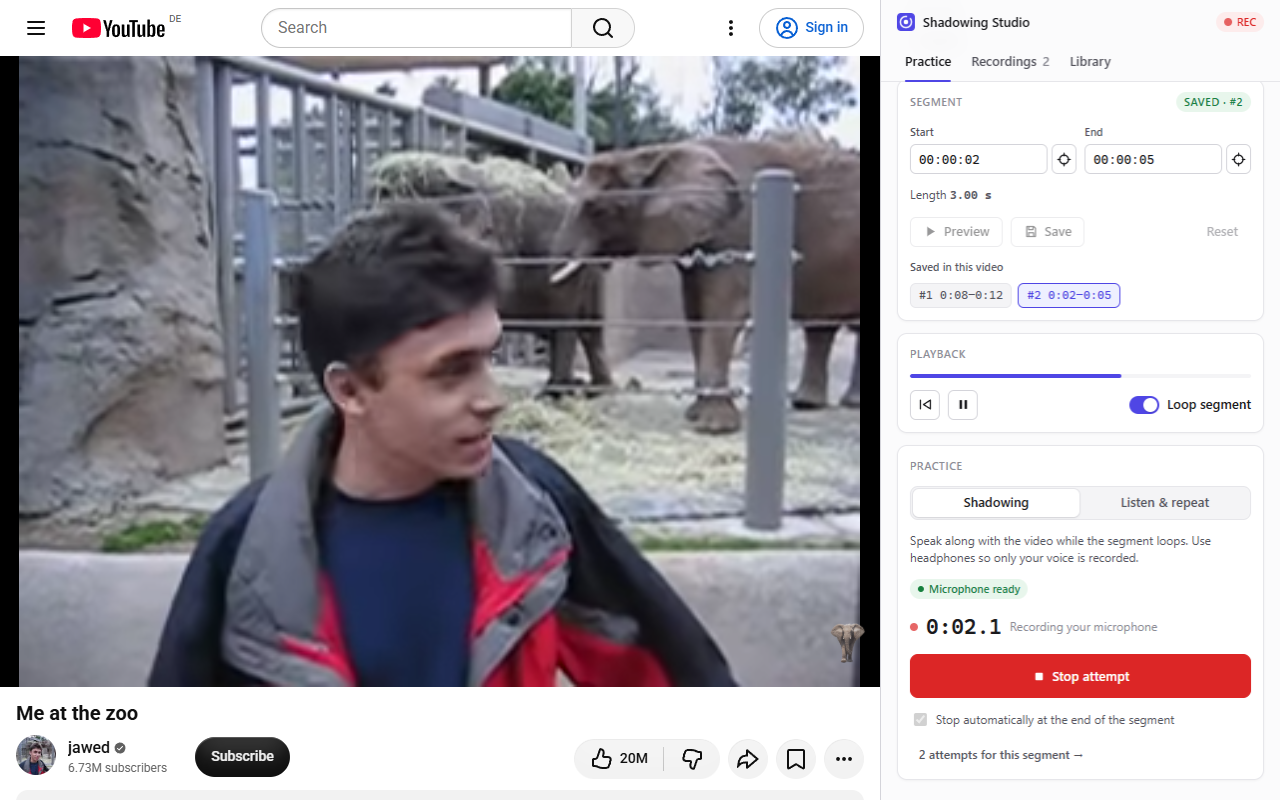
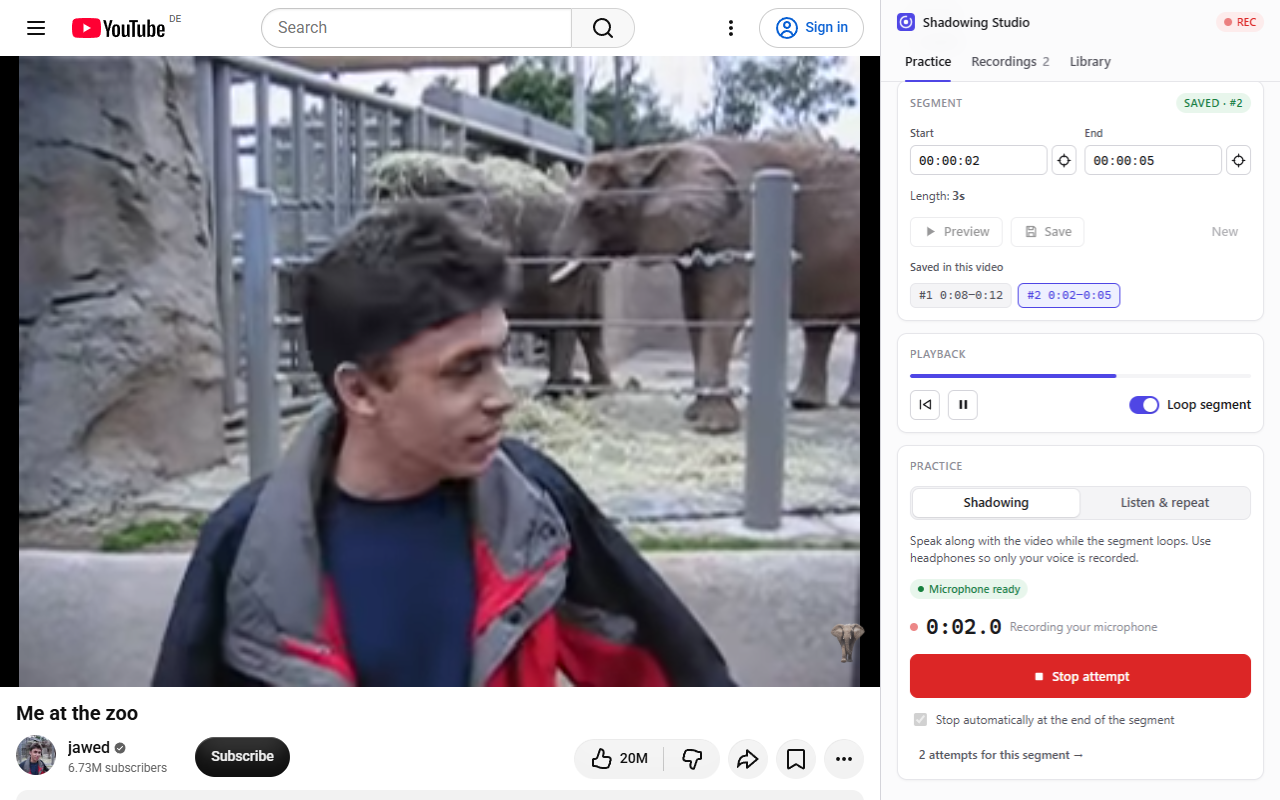
Polish: empty language, overlay toasts, New button, readable length
- Language field starts empty (placeholder "e.g. Spanish"); segments
  saved without a language show as "Unsorted", like export folders
- Notices are toasts overlaying the content below the header, so the
  layout never shifts; they close after 3 s (paused on hover), except
  ones with an action button
- "Reset" is now "New"
- Segment length reads "Length: 1m 10s"
- e2e: checks for the empty language field and toast behaviour;
  store screenshots regenerated

diff --git a/src/sidepanel/App.tsx b/src/sidepanel/App.tsx
@@ -35,6 +35,7 @@ const store = new ShadowingStore();
 const fixDuration: FixDuration = (blob, ms) => fixWebmDuration(blob, ms, { logger: false });
 /** Crash recovery runs once per panel document (StrictMode mounts effects twice in development). */
 let recovery: Promise<Recording[]> | null = null;
+const TOAST_MS = 3000;
 const EMPTY_WORKSPACE: Workspace = { videoId: null, segmentId: null, startText: '', endText: '' };
 
 /** `?tabId=N` pins the panel to one tab. Only used when the panel page is opened as a tab by automated tests. */
@@ -66,6 +67,7 @@ export function App() {
   const [phase, setPhase] = useState<RepeatPhase>('idle');
   const [mic, setMic] = useState<MicPermission>('unknown');
   const [notice, setNotice] = useState<Notice | null>(null);
+  const [toastHovered, setToastHovered] = useState(false);
   const [unsaved, setUnsaved] = useState<{ blob: Blob; mimeType: string } | null>(null);
   const [highlightId, setHighlightId] = useState<string | null>(null);
   const [comparingId, setComparingId] = useState<string | null>(null);
@@ -137,6 +139,18 @@ export function App() {
     bumpLibrary();
     if (live.current.settings.mode === 'repeat') setPhase('done');
   };
+
+  // Notices disappear after 3 s (paused while hovered). Ones with a button stay until used or dismissed.
+  useEffect(() => {
+    if (!notice) {
+      // The region collapses when empty, so mouseleave may never fire: reset the hover state.
+      setToastHovered(false);
+      return;
+    }
+    if (notice.action || toastHovered) return;
+    const id = setTimeout(() => setNotice(null), TOAST_MS);
+    return () => clearTimeout(id);
+  }, [notice, toastHovered]);
 
   // ---- startup: settings, mic permission, crash recovery, player connection ----
   useEffect(() => {
@@ -264,7 +278,7 @@ export function App() {
   /** Returns the saved segment for the current bounds, creating or updating it as needed. */
   async function ensureSegment(): Promise<Segment> {
     if (!bounds || !player?.videoId) throw new Error('Select a valid segment first.');
-    const lang = language.trim() || 'English';
+    const lang = language.trim();
     if (saved && saved.videoId === player.videoId) {
       if (sameBounds(saved, bounds) && saved.language === lang) return saved;
       if (sameBounds(saved, bounds) || recordings.length === 0) {
@@ -509,6 +523,24 @@ export function App() {
             </button>
           ))}
         </nav>
+        {/* Overlays the content below the header, so nothing shifts when it appears or disappears. */}
+        <div className="toast-region" onMouseEnter={() => setToastHovered(true)} onMouseLeave={() => setToastHovered(false)}>
+          {notice && (
+            <Banner
+              tone={notice.tone}
+              onDismiss={() => setNotice(null)}
+              action={
+                notice.action && (
+                  <button type="button" className="btn btn-sm" onClick={notice.action.run}>
+                    {notice.action.label}
+                  </button>
+                )
+              }
+            >
+              {notice.text}
+            </Banner>
+          )}
+        </div>
       </header>
 
       <main className="content">
@@ -532,21 +564,6 @@ export function App() {
             A recording could not be saved to the library.
           </Banner>
         )}
-        {notice && (
-          <Banner
-            tone={notice.tone}
-            onDismiss={() => setNotice(null)}
-            action={
-              notice.action && (
-                <button type="button" className="btn btn-sm" onClick={notice.action.run}>
-                  {notice.action.label}
-                </button>
-              )
-            }
-          >
-            {notice.text}
-          </Banner>
-        )}
 
         {tab === 'practice' && (
           <PracticeView
@@ -557,7 +574,7 @@ export function App() {
             language={language}
             onLanguageChange={(l) => {
               setLanguage(l);
-              if (l.trim()) updateSettings({ language: l.trim() });
+              updateSettings({ language: l.trim() });
             }}
             startText={ws.startText}
             endText={ws.endText}

diff --git a/src/sidepanel/components/PracticeView.tsx b/src/sidepanel/components/PracticeView.tsx
@@ -153,7 +153,6 @@ function VideoCard(p: PracticeViewProps) {
           className="input"
           value={p.language}
           onChange={(e) => p.onLanguageChange(e.target.value)}
-          onBlur={(e) => !e.target.value.trim() && p.onLanguageChange('English')}
           placeholder="e.g. Spanish"
           autoComplete="off"
           maxLength={40}
@@ -229,7 +228,7 @@ function SegmentCard(p: PracticeViewProps & { player: PlayerState }) {
         <p className="error-text">{p.segmentError}</p>
       ) : (
         <p className="hint">
-          Length <strong className="mono">{formatSegmentLength(p.segmentLength ?? 0)}</strong>
+          Length: <strong>{formatSegmentLength(p.segmentLength ?? 0)}</strong>
         </p>
       )}
       {p.saveState === 'modified-new' && (
@@ -243,8 +242,8 @@ function SegmentCard(p: PracticeViewProps & { player: PlayerState }) {
           <Icon name="save" /> {p.saveState === 'modified' ? 'Update' : 'Save'}
         </button>
         <span className="grow" />
-        <button type="button" className="btn btn-ghost" onClick={p.onReset} disabled={empty || busy}>
-          Reset
+        <button type="button" className="btn btn-ghost" onClick={p.onReset} disabled={empty || busy} title="Clear the times to start a new segment">
+          New
         </button>
       </div>
       {p.videoSegments.length > 0 && (

diff --git a/src/sidepanel/components/LibraryView.tsx b/src/sidepanel/components/LibraryView.tsx
@@ -14,6 +14,9 @@ export interface LibraryViewProps {
   onDelete: (segment: Segment) => void;
 }
 
+/** Segments saved without a language; the same label export folders use. */
+const languageLabel = (language: string) => language || 'Unsorted';
+
 interface VideoGroup {
   videoId: string;
   title: string;
@@ -104,7 +107,7 @@ export function LibraryView(p: LibraryViewProps) {
             <option value="all">All languages</option>
             {languages.map((l) => (
               <option key={l} value={l}>
-                {l}
+                {languageLabel(l)}
               </option>
             ))}
           </select>
@@ -124,7 +127,7 @@ export function LibraryView(p: LibraryViewProps) {
 
       {tree.map((lang) => (
         <div key={lang.language} className="group">
-          <h3 className="group-title">{lang.language}</h3>
+          <h3 className="group-title">{languageLabel(lang.language)}</h3>
           {lang.videos.map((v) => (
             <div key={v.videoId} className="list">
               <div className="video-head">

diff --git a/src/shared/time.ts b/src/shared/time.ts
@@ -52,12 +52,15 @@ export function formatClock(seconds: number, withMs = false): string {
   return withMs ? `${base}.${pad(totalMs % 1000, 3)}` : base;
 }
 
-/** Human length of a segment: `3.25 s`, `1 min 4.0 s`. */
+/** Readable length of a segment, in whole seconds: `10s`, `1m 10s`, `1h 2m 5s`. */
 export function formatSegmentLength(seconds: number): string {
-  if (!Number.isFinite(seconds) || seconds <= 0) return '0 s';
-  if (seconds < 60) return `${seconds.toFixed(2)} s`;
-  const m = Math.floor(seconds / 60);
-  return `${m} min ${(seconds - m * 60).toFixed(1)} s`;
+  const total = Number.isFinite(seconds) && seconds > 0 ? Math.round(seconds) : 0;
+  const h = Math.floor(total / 3600);
+  const m = Math.floor(total / 60) % 60;
+  const s = total % 60;
+  if (h > 0) return `${h}h ${m}m ${s}s`;
+  if (m > 0) return `${m}m ${s}s`;
+  return `${s}s`;
 }
 
 function pad(n: number, width: number): string {

diff --git a/src/sidepanel/styles.css b/src/sidepanel/styles.css
@@ -609,6 +609,35 @@ select.input {
   flex: none;
 }
 
+/* Toasts float just below the sticky header, over the content, so the layout never moves. */
+.toast-region {
+  position: absolute;
+  top: calc(100% + var(--space-2));
+  left: var(--space-4);
+  right: var(--space-4);
+  pointer-events: none;
+}
+
+.toast-region .banner {
+  pointer-events: auto;
+  border-color: var(--border);
+  box-shadow: 0 4px 16px rgb(0 0 0 / 0.12), 0 1px 3px rgb(0 0 0 / 0.08);
+  animation: toast-in 0.15s ease-out;
+}
+
+@keyframes toast-in {
+  from {
+    opacity: 0;
+    transform: translateY(-4px);
+  }
+}
+
+@media (prefers-reduced-motion: reduce) {
+  .toast-region .banner {
+    animation: none;
+  }
+}
+
 .empty {
   text-align: center;
   padding: var(--space-5) var(--space-3);

diff --git a/tests/time.test.ts b/tests/time.test.ts
@@ -72,9 +72,13 @@ describe('formatClock / formatSegmentLength', () => {
   });
 
   it('formats segment lengths', () => {
-    expect(formatSegmentLength(3.254)).toBe('3.25 s');
-    expect(formatSegmentLength(64)).toBe('1 min 4.0 s');
-    expect(formatSegmentLength(0)).toBe('0 s');
+    expect(formatSegmentLength(3)).toBe('3s');
+    expect(formatSegmentLength(10.4)).toBe('10s');
+    expect(formatSegmentLength(60)).toBe('1m 0s');
+    expect(formatSegmentLength(70)).toBe('1m 10s');
+    expect(formatSegmentLength(3725)).toBe('1h 2m 5s');
+    expect(formatSegmentLength(0)).toBe('0s');
+    expect(formatSegmentLength(NaN)).toBe('0s');
   });
 });
 

diff --git a/src/shared/types.ts b/src/shared/types.ts
@@ -39,7 +39,7 @@ export interface Settings {
   autoStop: boolean;
 }
 
-export const DEFAULT_SETTINGS: Settings = { mode: 'shadowing', language: 'English', autoStop: true };
+export const DEFAULT_SETTINGS: Settings = { mode: 'shadowing', language: '', autoStop: true };
 
 export function watchUrl(videoId: string, start?: number): string {
   const base = `https://www.youtube.com/watch?v=${encodeURIComponent(videoId)}`;
